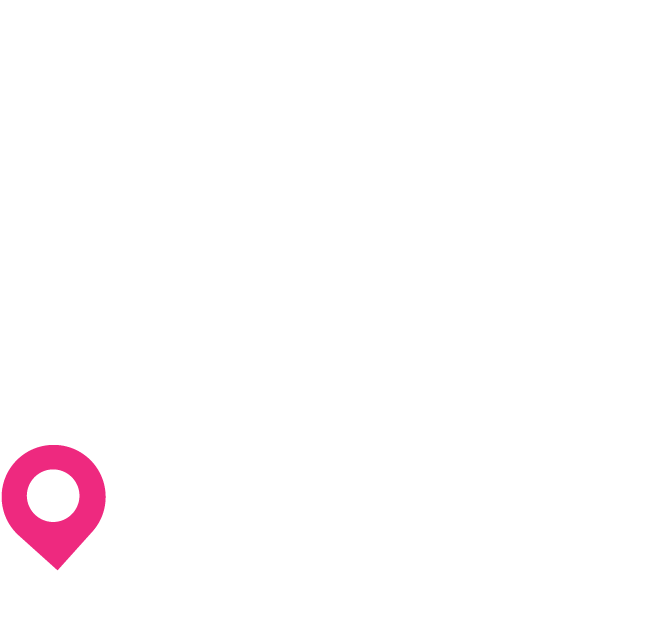
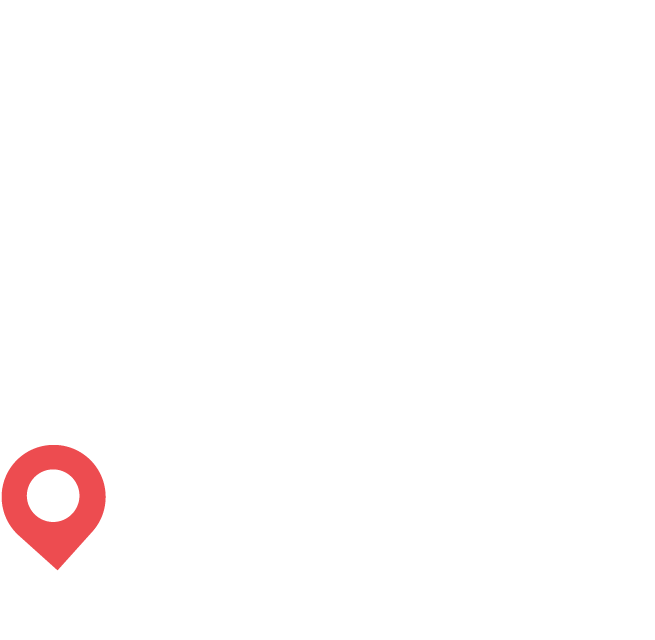
changing background image and colors

Changed region(s): [[0.0, 0.6875, 0.1832, 0.9062]]

diff --git a/css/MapaDaqui.css b/css/MapaDaqui.css
@@ -1,7 +1,7 @@
 body{
 	background:#253237;
 	height: 100%;
-	background-image: url("http://www.mapadaqui.com/img/fundo.jpg");
+	background-image: url("../img/fundo-gut.jpg");
 background-size: cover;
 background-repeat: no-repeat;
 background-position: center top;
@@ -96,7 +96,7 @@ box-shadow: 0 0 0px;
 
 #mc-embedded-subscribe{
 width:100%;
-background:#ED287E;
+background:#ED4C50;
 color:white;
 border:0px solid white;
 border-radius:4px;
@@ -120,7 +120,8 @@ text-transform: Uppercase;
 
 #mc-embedded-subscribe:hover{
 
-background:#E32E7D;
+background:#ED4C50;
+opacity:0.8;
 
 }
 
